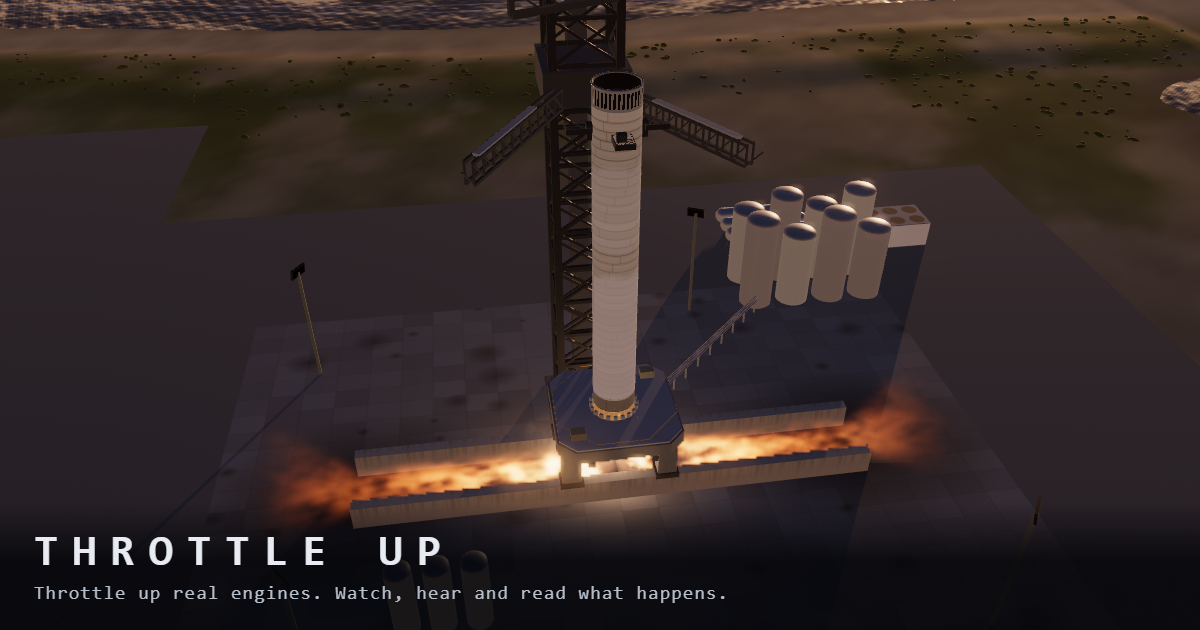
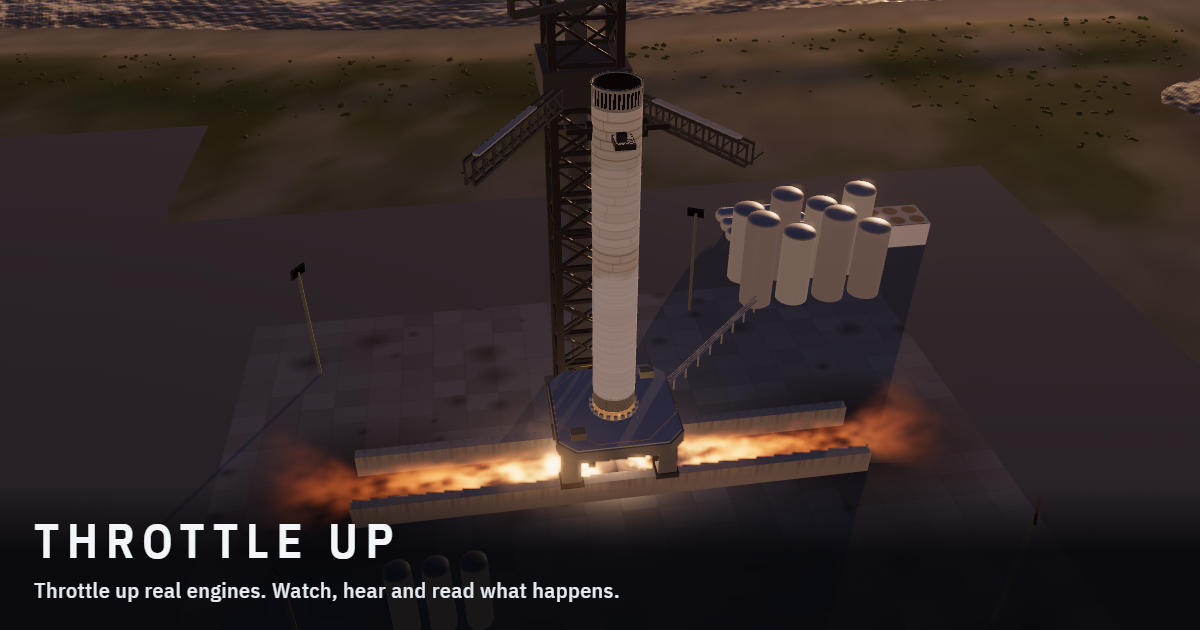
docs: the interface design rules; share image in the new type
CLAUDE.md gains an Interface design section (tokens, type, keys, motion,
per-frame cost) and the file list, lamp roles and mission trace fields are
brought up to date. og.png regenerated with the new title type.

Changed region(s): [[0.0308, 0.7841, 0.5858, 0.9651], [0.4933, 0.7841, 0.555, 0.8143]]

diff --git a/CLAUDE.md b/CLAUDE.md
@@ -26,7 +26,7 @@ Machines 0–2 also have a hand-drawn 2D canvas renderer (fallback). Machines wi
 
 Top level: `index.html` + `src/` (the game), `tools/` (golden suite, compare, chunk check), `legacy/` (v11 and the Python tests from its development), `docs/SOURCES.md`.
 
-`index.html` (markup) + `src/style.css` + `src/main.js`. The code was moved verbatim from v11 by scripts and then formatted with Prettier (`npm run format`; `.prettierrc.json`, 120 columns), so variable names are still v11's short ones (`N`, `E`, `fu`, `hg` ... see the state list below).
+`index.html` (markup) + `src/style.css` (design tokens at the top, then the DOM HUD) + `src/main.js`. The code was moved verbatim from v11 by scripts and then formatted with Prettier (`npm run format`; `.prettierrc.json`, 120 columns), so variable names are still v11's short ones (`N`, `E`, `fu`, `hg` ... see the state list below).
 
 ```
 src/
@@ -35,15 +35,19 @@ src/
                           lens, mi, M, simT, alt, vz, ...) with its initial value. Code reads/writes state.N etc.
   core/params.js          ?q (QP), ?manual (MAN), ?fps (FPS), ?nomerge, ?daily (DAILY); ?m is read in main.js, ?r=2d in
                           core/loader3d.js
-  core/util.js            $, cv/g (HUD canvas), mk, sm (smoothstep), label tables, MONO font
+  core/util.js            $, cv/g (HUD canvas), mk, sm (smoothstep), label tables, MONO (the system monospace stack,
+                          no longer used by the HUD)
+  core/tokens.js          design tokens for canvas-drawn UI: T (colours by role, copied from style.css :root by
+                          wireTokens() at boot), lbl(px, weight) / num(px, weight) font strings, fontsReady()
   core/engine.js          update(dt): generic engine model, stall/surge, master switch; M.clu(dt) per-machine step
   core/machine-switch.js  setMachine (resets, then every machine's reset() and the selected one's onSelect()), chips
   core/loop.js            frame(), adapt() (auto quality, 4 levels: Q2, Q1, Q0, Q0 at 0.7 resolution; CPU-bound
                           frames skip the resolution drops), step() test hook
   core/loader3d.js        load3D(): fetches three + the renderer chunk; ready3D/fail3D fall back to 2D
-  hud/                    layout.js (resize), gauges.js (gauges, lamps, engine switch, inset placement),
-                          controls.js (lab, act, lever labels, START overlay), fps.js (?fps readout)
-  input/lever.js          lever(s) with the MIL detent, keyboard; while state.slide is set (Harrier deck landing) a
+  hud/                    layout.js (resize), gauges.js (dials, lamps with warm-up and bulb check, engine switch, inset
+                          placement), panel.js (insetFrame: the frame every inset shares), controls.js (lab and its
+                          two-part keys, act, lever labels, START overlay, the T+ run clock), fps.js (?fps readout)
+  input/lever.js          lever(s) with the MIL detent (the gate lights: #tq.latch), keyboard; while state.slide is set (Harrier deck landing) a
                           sideways drag on the view or ←/→ sets state.side (-1..1) and the camera stops orbiting
   audio/audio.js          Web Audio graph and one-shot sounds (per-machine voices live in the machine folders)
   sequence/sequence.js    SEQUENCE player (SQ, seqStart/Next/Stop/Tick/Cap)
@@ -51,8 +55,11 @@ src/
                           machine's `mission` sets the conditions and judges; progress shows in the machine's inset.
                           Daily challenge: dayNo() (#1 = 2026-10-28, local date), daySeed(name, n), tries/best per day in
                           localStorage (`tu-daily-<name>`), shareText() (the SHARE line)
+  mission/trace.js        the try's telemetry trace (TRC): two readouts sampled 10 times a second while a mission runs,
+                          drawn as a strip chart on the result card and the clip (traceDraw); display only
   mission/clip.js         the mission's 9:16 clip (CL, clipStart/clipFrame/clipDrop/clipOpen): records each try on its
-                          own 720×1280 canvas (3D view cropped 3:4 round the middle, title, readouts, verdict), ends
+                          own 720×1280 canvas (3D view cropped 3:4 round the middle; title band with a run clock, readouts,
+                          then the verdict panel with score and trace), ends
                           3.5 s after the verdict; the card's ▶ CLIP opens it in REC's CLIP READY panel (openClip)
   info/                   info.js (INFO panel), cut-text.js (the SCHLIEREN/THERMAL paragraphs)
   recorder/recorder.js    REC: WebGL + HUD composite into a MediaRecorder clip; recMime() and openClip() serve the
@@ -96,9 +103,9 @@ Frame: `frame(t)` → `seqTick` → `keys` → `update` → `misTick` → `audio
 `n` title, `btn` chip label, `sub` subtitle, `hint`, flags `need3d, space, warp, orbit, hover, nozzle, sky, inset, spike`, `insetF` (inset drawer).
 Hooks: `clu(dt)` per-frame machine step (Hall orbit, Saturn V, Harrier hover, NK-12, sky crane, Starship), `reset()` (runs for every machine on any switch), `onSelect()` (sky crane), `seqPre()` (sky crane's SEQUENCE pre-step), `camA(view)`, `warpName(i)` (Hall).
 Engine model: `idle, up, dn, coast, cN, cT, tk, ign, lk, e0f, lt, ab, stall, e:[EGT curve], f:[fuel curve]`.
-UI: `g` (3 gauges: `{t,cap,min,max,maj,mn,red,d,f}`), `gv()` values, `lv`/`lv2` lever labels `[text,pos,'t'|'b']`, `lp()` lamps, status words `off/st/cl/cut/wait`.
+UI: `g` (3 gauges: `{t,cap,min,max,maj,mn,red,d,f}`), `gv()` values, `lv`/`lv2` lever labels `[text,pos,'t'|'b']`, `lp()` lamps `[text, lit, role]` (role: `go`, `live`, `warn` or `info`, a token name, not a hex colour), status words `off/st/cl/cut/wait`.
 Feel: `shk()` camera shake strength (currently switched off for every machine: `SHAKE = 0` in `core/util.js`; it was a stylistic cue, not a measured effect), `au(s,V,pm)` audio voice.
-Game: `mission:{name, brief, tag, share(r), start(rng), end(), judge(), over(t)}` (sky crane): `start` sets the attempt's conditions from a seeded generator (never `Math.random`), `end` restores free play, `judge()` returns null until there is a verdict `{ok, title, why, rows:[[label,value]], score}`, `over(t)` says when to show the card (t = seconds since the verdict), `tag` names it in the share line and the clip, `share(r)` gives the line's detail, and `clip()` the clip's live readouts `[[label, value]]`. ◆ MISSION (and FLY AGAIN) starts today's daily challenge: the same conditions for everyone on the same date, tries counted; `misStart(seed)` with a seed (tests) is not a daily try. `?m=7&daily`, the link in the share line, starts it as soon as the engine runs. A machine with a mission shows ◆ MISSION in place of its FAULTS button (it has no stall); slow-mo is locked during a mission; SEQUENCE, machine switch and END MISSION stop it.
+Game: `mission:{name, brief, tag, share(r), start(rng), end(), judge(), over(t)}` (sky crane): `start` sets the attempt's conditions from a seeded generator (never `Math.random`), `end` restores free play, `judge()` returns null until there is a verdict `{ok, title, why, rows:[[label,value]], score}`, `over(t)` says when to show the card (t = seconds since the verdict), `tag` names it in the share line and the clip, `share(r)` gives the line's detail, `clip()` the clip's live readouts `[[label, value]]`, and `traceLab` + `trace()` the two quantities (names with units, and their current values) plotted on the result card and the clip. ◆ MISSION (and FLY AGAIN) starts today's daily challenge: the same conditions for everyone on the same date, tries counted; `misStart(seed)` with a seed (tests) is not a daily try. `?m=7&daily`, the link in the share line, starts it as soon as the engine runs. A machine with a mission shows ◆ MISSION in place of its FAULTS button (it has no stall); slow-mo is locked during a mission; SEQUENCE, machine switch and END MISSION stop it.
 Story: `sqc` + `sq[]` SEQUENCE steps (`{cap, lever|()=>, dur, wait, until(), max, view, do()}`), `info:{f:[facts], a:[approximations], cut:string|array, s:[[title,url]]}` (a string `cut` gets the shared SCHLIEREN/THERMAL paragraphs appended).
 2D-only: `nxf, r, gl, skyG, hzk, hzg, hza, blk, mc, dk, bl, bd, pl, draw, rear`.
 
@@ -124,6 +131,35 @@ Live at https://kkbosu.github.io/throttle-up/ (GitHub Pages, repo `kkbosu/thrott
 - `.github/workflows/deploy.yml`: every push to `main` runs lint, format check and `npm run check` (which builds the site) in headless Chromium, then publishes `dist/` to Pages; pull requests get the checks only. One-time repo setting: Settings > Pages > Source: GitHub Actions.
 - Sharing: `index.html` has the description, Open Graph / Twitter tags (absolute URLs to the live site) and the favicon. `public/` holds `favicon.svg`, `apple-touch-icon.png` and `og.png` (the 1200x630 preview, rendered from the game). Regenerate the PNGs with `node tools/site-images.mjs` when the visuals change (`--try <dir>` renders the candidate shots).
 
+## Interface design (since 2026-11-10, branch `ui/polish`)
+
+Direction: mission-control telemetry. Flat panels with square corners, small condensed capitals for labels, every number
+in a monospace with its unit, one amber for live values, green and red for status only, blue for missions. Controls you
+touch stay solid (the lever knob and its gate, keys that move when pressed).
+
+- **One set of tokens.** `src/style.css` `:root` defines colour roles, the two typefaces, the type scale, spacing and
+  timing. Canvas code reads the same values through `T`, `lbl()` and `num()` (`core/tokens.js`). Don't write a
+  colour or font literal in UI code; add a token. (Colours that depict something, like the sea or the Earth in an inset,
+  are drawing colours and stay where they are.)
+- **Type.** IBM Plex Sans Condensed 500/600 for labels and text, IBM Plex Mono 600 for numbers, self-hosted from
+  `@fontsource` (latin subset, about 55 kB of woff2), with fallbacks sized to match. The canvas HUD draws nothing until
+  they have loaded (`state.fontOK`, 3 s timeout); the test harness waits for it too.
+- **Three reading levels.** Glance: dial numerals, lit lamps, the verdict, the score. Rest: title, hint, key values,
+  lever labels. Fine print: captions, units, key names, the daily line.
+- **Keys.** Every button is the same part (`#ctl`, `#mch`, `#mis`, `#clip`, `#infx`): pressed, focus-visible, disabled
+  and lit (`.on`: the thing it controls is on; `.run`: it would stop something running). A setting key holds two parts,
+  name and value, but its text still reads `NAME: VALUE`, which the tests match. One solid green button per screen for
+  the main action (START ENGINE, SHARE, SAVE).
+- **Motion marks state changes only**, and only with `transform` and `opacity`. Panels animate on the way in
+  (`@keyframes rise`); `display` still flips at once and closing is instant, because the checks read `display` straight
+  after a click. No endless animation on `#ov span` (Playwright waits for it to hold still). No `backdrop-filter`,
+  blur, or animated shadow. `prefers-reduced-motion` makes everything instant.
+- **Per-frame cost.** The lever knobs move by transform and are written only when they change; dial faces are cached per
+  size and each dial draws one arc, one tick and one number a frame; the run clock writes once a second. `gauges()`
+  still reads two layout rects a frame (as before this work).
+- **Display state stays out of the sim.** Lamp warm-up, the bulb check and the trace read the sim and write nothing to
+  it, and draw no `Math.random()`; the golden manifest's sim state did not change with this work.
+
 ## Non-negotiable conventions
 
 - **Credibility first.** Every user-facing fact in INFO must come from a source listed in that machine's `info.s` (see `docs/SOURCES.md`). Anything modelled, assumed or simplified goes in `info.a` ("WHAT IS APPROXIMATED"), stated plainly. Don't state numbers you can't source (e.g. NK-12 propeller rpm, sky-crane descent stage mass are deliberately not claimed as fact).
@@ -131,7 +167,7 @@ Live at https://kkbosu.github.io/throttle-up/ (GitHub Pages, repo `kkbosu/thrott
 - Keep the 2D fallback working for machines 0–2 (`?r=2d`), and degrade gracefully when WebGL2 or the CDN fails.
 - Mobile matters: portrait phones, phones held sideways, two-lever layouts, insets must not overlap gauges. Test at 390×780 and 734×283 (a phone sideways in Chrome). Screens under 480 px tall get a compact title, hint and buttons (`style.css`), and the dials shrink to the room left above the buttons (`fitDials()` in `hud/gauges.js`, down to 40 px).
 - Captions/lamps are short (lamps fit ~9 characters).
-- Sound is synthesized (Web Audio) — no recordings yet.
+- Sound is synthesized (Web Audio) — no recordings yet. Keys and the engine switch click (`click()` in `audio/audio.js`), only on a real press, not when tests call `act()`.
 
 ## Testing
 
@@ -179,6 +215,13 @@ Real-device checks still outstanding: real GPU, mid-range Android, iPhone Safari
 
 ## Known issues
 
+- The mission clip's crop is centred on the view, not on the machine, so after a sky-crane landing the rover sits at the
+  bottom edge of the clip.
+- The lever knob shows no number: the mock-up had a percentage on it, but the lever is not a percentage on every machine
+  (kW on the Hall thruster, engines lit on the Saturn V).
+- The START overlay shows one loading state (LOADING 3D...), not a list of steps: fetching the 3D code is the only step
+  that takes time; building the models happens in the same instant it arrives.
+
 - Harrier and rover models are crude up close; Mars sunset blue glow is broad.
 - The Harrier MISSION's ship is blocky (box island, straight-sided hull), its downwash spray is the pad's tan dust even over the sea, and from the default camera the jet can look over the deck while still off its edge (the inset's map shows the truth).
 - Saturn V schlieren is busy where the plume meets the deflector.
@@ -193,6 +236,7 @@ Real-device checks still outstanding: real GPU, mid-range Android, iPhone Safari
 1. **Make it shippable**
    - ~~Split into a Vite project, one module per machine (sim + builder + config + info together), shared renderer/HUD/audio modules. Behaviour identical to v11 — compare screenshots before/after.~~ Done (branch `refactor/vite-split`): identical to v11 on the full golden suite.
    - ~~Git, then host on GitHub Pages; social preview image (Open Graph), favicon.~~ Done (live, see Hosting). Still open: privacy-friendly analytics (not chosen yet; needs Kingsley's choice and account, e.g. GoatCounter, Plausible, Cloudflare Web Analytics).
+   - ~~Interface polish: tokens, type system, keys, lever, dials and lamps, START overlay, INFO, result card with trace, clip frame.~~ Done 2026-11-10 on branch `ui/polish` (see Interface design). Not yet checked on a real phone.
    - Real-device test pass and fixes (performance budget for mid-range Android). Partly done (2026-10-22 to 10-28): the `?fps` readout, the CPU work above, and the landscape layout. Deferred until later (Kingsley's call, 2026-10-28): Starship's GPU cost on the Mali-G52 (see Known issues), iPhone Safari, listening on real speakers.
 
 2. **Game layer**
